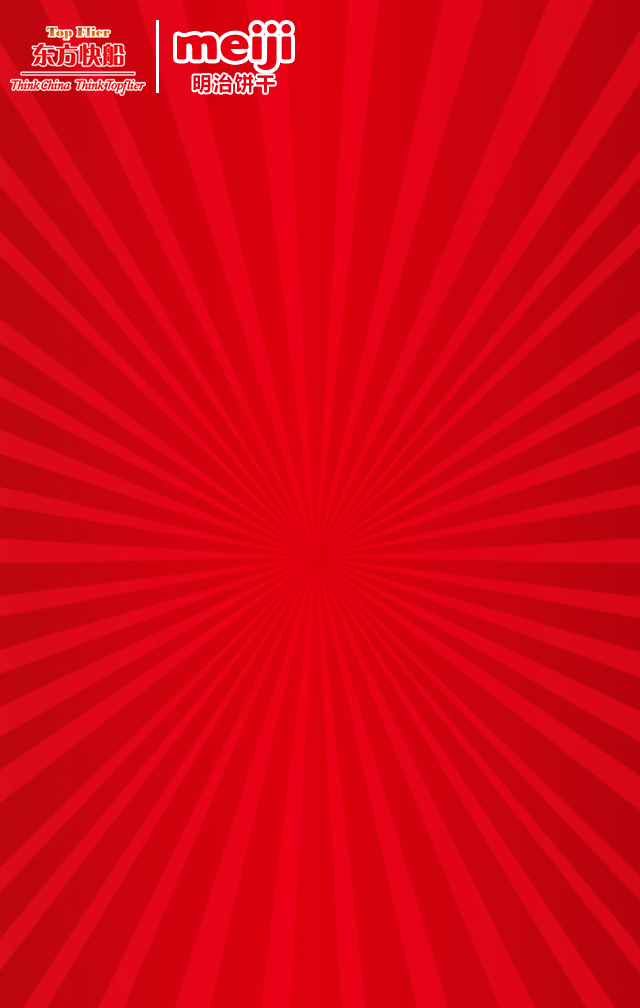
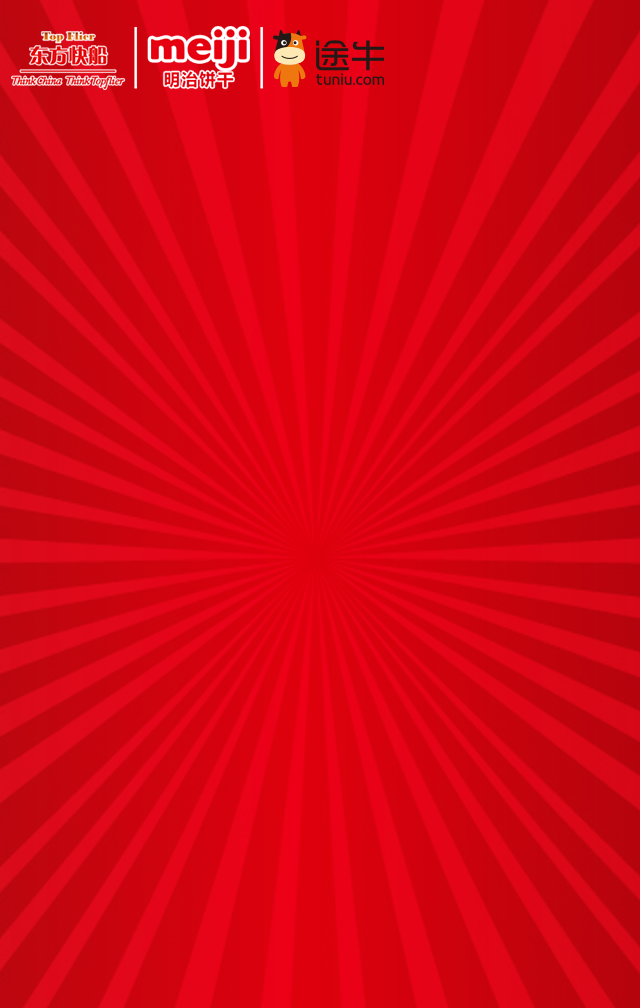
update

Changed region(s): [[0.0, 0.0, 0.5938, 0.0923]]

diff --git a/src/css/main.css b/src/css/main.css
@@ -69,8 +69,10 @@ a {
 }
 
 .logoA {
-    height: 76px;
-    width: 285px;
+    height: 64px;
+    width: 373px;
+    /*height: 76px;*/
+    /*width: 285px;*/
     background: url("../img/logo.png");
 }
 
